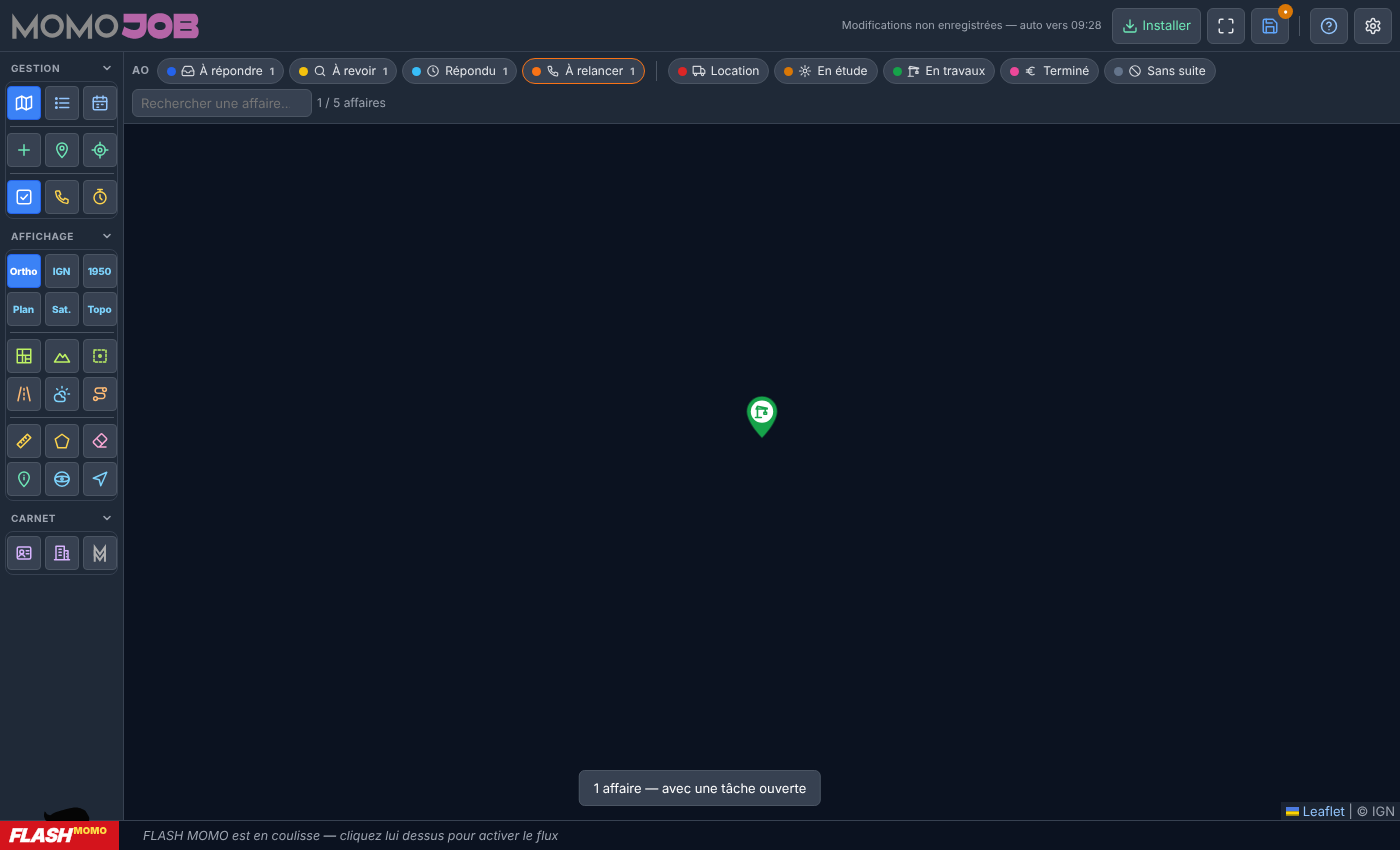
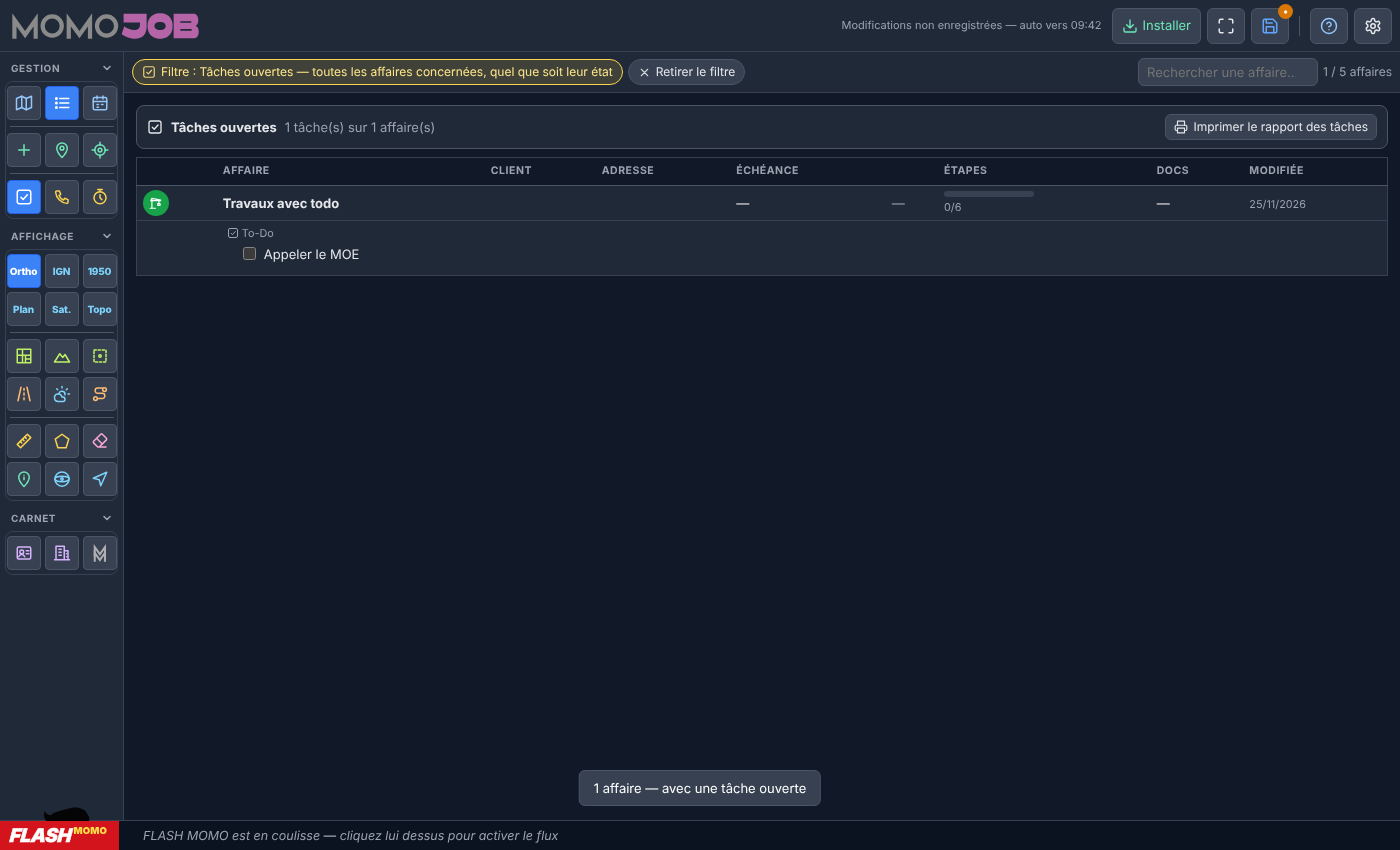
Tâches : vue liste avec les to-do sous chaque affaire (cochables), rapport imprimable des tâches ; filtres de GESTION combinés aux vignettes, signalés dans la barre et non mémorisés
Claude-Session: https://claude.ai/code/session_01UwkBq42mTmNpzeL7SbmaEB

diff --git a/index.html b/index.html
@@ -237,6 +237,10 @@ body.pano-on #map{right:48%}body.pano-on #modeHint{left:26%}body.pano-on #liveLe
 .tttodo{margin-top:4px;padding-top:4px;border-top:1px solid #4b5563;color:#e5e7eb;font-size:12px}.tttodo b{color:#fcd34d;display:flex;align-items:center;gap:4px}
 .tlclip{position:absolute;right:-8px;bottom:-6px;display:inline-flex;align-items:center;gap:1px;background:var(--acc);color:#fff;border-radius:8px;padding:0 4px;font:700 10px/14px system-ui;font-style:normal}.tli{position:relative}
 .tln.over .tli{outline:2px dashed var(--acc2);outline-offset:3px}.evfiles.over{outline:2px dashed var(--acc2);outline-offset:4px;border-radius:6px}
+.todobar{display:flex;align-items:center;gap:8px;padding:8px 10px;margin-bottom:8px;border:1px solid var(--line);border-radius:8px;background:var(--pan)}.todobar .sp{flex:1}
+.todorow td{padding-top:0!important;border-top:0!important}.todorow .tdg{margin:2px 0 8px 4px}.todorow .tdi{display:flex;align-items:center;gap:8px;margin:4px 0 0 16px;cursor:pointer;width:max-content;max-width:100%}.todorow .tdi input{width:auto!important;height:auto;margin:0;flex:none}.todorow .tdi span{color:var(--ink)}
+.pdoc .tdaff{break-inside:avoid-page;margin-bottom:14px;padding-bottom:8px;border-bottom:1px solid #ddd}.pdoc h3{font-size:12.5px;margin:8px 0 3px}
+#fbar .tag.focus{background:rgba(252,211,77,.15);border-color:#fcd34d;color:#fde68a}
 .dlink{color:#93c5fd;text-decoration:none;display:inline-flex;align-items:center;gap:4px}.dlink:hover{color:#fff;text-decoration:underline}.prel.over{border-color:var(--acc2);background:var(--acc-l)}.jal.over{border-color:var(--acc2);background:var(--acc-l)}
 .jnum{width:26px;height:26px;border-radius:50%;display:inline-flex;align-items:center;justify-content:center;color:#111827;font-weight:800;font-size:12px;flex:none}
 .kpis{display:flex;gap:8px;flex-wrap:wrap;margin-bottom:12px}
@@ -746,8 +750,8 @@ let IDXV=0,NEXTAUTO=null,AUTOERR='';const DIRTYV=new Map();
 let IDXDIRTY=false,LASTSAVE=null,A=null,RTAB='rapport',DCTAB='dc1',VIEW='map',MODE=null,MOVEA=null,DRAWER=null,saving=false;
 const FILT={ar:true,rev:true,rep:true,rel:true,focus:'',location:true,etude:true,travaux:true,termine:true,sanssuite:true,q:''};
 /* Les filtres d'états et les surcouches restent réglés d'une ouverture à l'autre */
-try{const f=JSON.parse(localStorage.getItem('momojob_filt')||'null');if(f)for(const k in FILT)if(k!=='q'&&f[k]!==undefined&&typeof f[k]===typeof FILT[k])FILT[k]=f[k]}catch(e){}
-const saveFilt=()=>{try{const f={...FILT};delete f.q;localStorage.setItem('momojob_filt',JSON.stringify(f))}catch(e){}};
+try{const f=JSON.parse(localStorage.getItem('momojob_filt')||'null');if(f)for(const k in FILT)if(k!=='q'&&f[k]!==undefined&&typeof f[k]===typeof FILT[k])FILT[k]=f[k];FILT.focus=''}catch(e){}
+const saveFilt=()=>{try{const f={...FILT};delete f.q;delete f.focus;localStorage.setItem('momojob_filt',JSON.stringify(f))}catch(e){}};
 function newIndex(){return {app:'MOMOwork',v:1,created:new Date().toISOString(),settings:{autoVal:5,autoUnit:'min',center:null},entreprise:{ca:[{},{},{}],eff:[{},{},{}]},carnet:{clients:[],st:[],fourn:[]},annots:[],affaires:[]}}
 function normIdx(){const n=newIndex();for(const k in n)if(IDX[k]==null)IDX[k]=n[k];for(const k in n.settings)if(IDX.settings[k]===undefined)IDX.settings[k]=n.settings[k];for(const k in n.carnet)if(!IDX.carnet[k])IDX.carnet[k]=[];if(!IDX.entreprise.ca)IDX.entreprise.ca=[{},{},{}];if(!IDX.entreprise.eff)IDX.entreprise.eff=[{},{},{}]}
 function newAff(p={}){return {app:'MOMOwork-affaire',v:1,id:uid('AF-'),created:new Date().toISOString(),updated:new Date().toISOString(),
@@ -762,8 +766,8 @@ function normAff(a){const n=newAff();for(const k in n)if(a[k]==null)a[k]=n[k];fo
 const RELANCE_J=21;
 function aoSub(s){if(s.etat!=='ao')return null;if(s.avalider)return 'rev';if(s.repondu){const r=s.rdate?-daysTo(s.rdate):null;return r!=null&&r>=RELANCE_J?'rel':'rep'}return 'ar'}
 const AOSUB={ar:{l:'À répondre',c:'#2563EB',e:'inbox'},rev:{l:'À revoir',c:'#F4C20D',e:'search'},rep:{l:'Répondu',c:'#38BDF8',e:'clock'},rel:{l:'À relancer',c:'#F97316',e:'phone'}};
-const openTodos=a=>{const o=[];(a.events||[]).forEach(e=>{if(e.type==='todo')(e.items||[]).forEach(it=>{if(!it.done&&it.t)o.push(it.t)})});return o};
-function summary(a){const d=a.deno;const st=STEPS.map(s=>stepState(a,s));const jn=(a.jalons||[]).find(j=>!j.valide&&j.prevu);return {id:a.id,mtf:a.mtf||null,fs:a.fs||null,late:(a.fact||[]).filter(factLate).length,jnext:jn?{t:jn.titre,d:daysTo(jn.prevu)}:null,nom:d.nom,ref:d.ref,etat:d.etat,client:d.client.societe,adresse:d.adresse,lat:d.lat,lng:d.lng,echeance:d.echeance,repondu:!!d.repondu,avalider:!!d.avalider,rdate:d.relanceLe||d.reponduLe||d.echeance||'',todo:openTodos(a).length,todos:openTodos(a).slice(0,6),steps:{done:st.filter(x=>x==='done').length,total:STEPS.length},docs:{ok:a.docs.filter(x=>x.st!=='attendu').length,total:a.docs.length},updated:a.updated}}
+const openTodos=a=>{const o=[];[...(a.events||[])].sort((x,y)=>(x.date||'').localeCompare(y.date||'')).forEach(e=>{if(e.type==='todo')(e.items||[]).forEach((it,i)=>{if(!it.done&&it.t)o.push({e:e.id,i,t:it.t,l:e.titre||'To-Do',d:(e.date||'').slice(0,10)})})});return o};
+function summary(a){const d=a.deno;const st=STEPS.map(s=>stepState(a,s));const jn=(a.jalons||[]).find(j=>!j.valide&&j.prevu);return {id:a.id,mtf:a.mtf||null,fs:a.fs||null,late:(a.fact||[]).filter(factLate).length,jnext:jn?{t:jn.titre,d:daysTo(jn.prevu)}:null,nom:d.nom,ref:d.ref,etat:d.etat,client:d.client.societe,adresse:d.adresse,lat:d.lat,lng:d.lng,echeance:d.echeance,repondu:!!d.repondu,avalider:!!d.avalider,rdate:d.relanceLe||d.reponduLe||d.echeance||'',todo:openTodos(a).length,todos:openTodos(a).slice(0,40),steps:{done:st.filter(x=>x==='done').length,total:STEPS.length},docs:{ok:a.docs.filter(x=>x.st!=='attendu').length,total:a.docs.length},updated:a.updated}}
 function syncEntry(a){const s=summary(a);const i=IDX.affaires.findIndex(x=>x.id===a.id);if(i<0)IDX.affaires.push(s);else IDX.affaires[i]=s}
 function touchAff(a){a.updated=new Date().toISOString();DIRTY.add(a.id);DIRTYV.set(a.id,(DIRTYV.get(a.id)||0)+1);syncEntry(a);markIdx()}
 function touch(){if(A)touchAff(A)}
@@ -1007,6 +1011,7 @@ function pinIcon(s){const st=pinStyle(s),icol=st.c==='#F4C20D'?'#a16207':st.c===
   return L.divIcon({className:'pin',iconSize:[36,46],iconAnchor:[18,45],tooltipAnchor:[0,-40],html:`<svg width="36" height="46" viewBox="0 0 36 46" xmlns="http://www.w3.org/2000/svg"><path d="M18 44.6S33.6 29.4 33.6 17.6A15.6 15.6 0 0 0 2.4 17.6C2.4 29.4 18 44.6 18 44.6Z" fill="${st.c}" stroke="#0b1220" stroke-opacity=".6" stroke-width="1.6" stroke-linejoin="round"/><circle cx="18" cy="17.6" r="11.2" fill="#fff"/><svg x="10.2" y="9.8" width="15.6" height="15.6" viewBox="0 0 24 24" fill="none" stroke="${icol}" stroke-width="2.5" stroke-linecap="round" stroke-linejoin="round">${IC[st.e]||''}</svg></svg>`})}
 function visible(s){
   const q=FILT.q;if(q){const t=[s.nom,s.client,s.adresse,s.ref].join(' ').toLowerCase();if(!t.includes(q))return false}
+  /* Filtre de GESTION : il se combine avec les vignettes d'états */
   if(FILT.focus==='todo'&&!(s.todo>0))return false;
   if(FILT.focus==='rel'&&aoSub(s)!=='rel')return false;
   if(FILT.focus==='soon'){const j=daysTo(s.echeance);if(s.repondu||j==null||j<0||j>7||['termine','sanssuite'].includes(s.etat))return false}
@@ -1300,7 +1305,7 @@ function refreshMarkers(){
   IDX.affaires.forEach(s=>{if(s.lat==null||s.lng==null||!visible(s))return;
     const m=L.marker([s.lat,s.lng],{icon:pinIcon(s)});
     const j=daysTo(s.echeance);
-    m.bindTooltip(`<b>${esc(s.nom)}</b><br>${esc(ETATS[s.etat]?.l||'')}${s.client?' — '+esc(s.client):''}${s.echeance?`<br>Échéance : ${fmtD(s.echeance)}${!s.repondu&&j!=null&&s.etat!=='termine'&&s.etat!=='sanssuite'?` (${j<0?'dépassée':'J-'+j})`:''}`:''}${aoSub(s)==='rel'?`<br><b style="color:#F97316">${ic('phone',12)} À relancer</b>`:''}${s.todo?`<div class="tttodo"><b>${ic('todo',12)} ${s.todo} tâche${s.todo>1?'s':''} ouverte${s.todo>1?'s':''}</b>${(s.todos||[]).slice(0,4).map(t=>`<div>• ${esc(t)}</div>`).join('')}${s.todo>4?`<div>… et ${s.todo-4} autre(s)</div>`:''}</div>`:''}<div class="ttw" data-w="${s.id}">${wxNowHTML(s)}</div><span style="color:#9ca3af">${s.steps?.done||0}/${s.steps?.total||6} étapes — clic pour le rapport</span>`,{direction:'top'});
+    m.bindTooltip(`<b>${esc(s.nom)}</b><br>${esc(ETATS[s.etat]?.l||'')}${s.client?' — '+esc(s.client):''}${s.echeance?`<br>Échéance : ${fmtD(s.echeance)}${!s.repondu&&j!=null&&s.etat!=='termine'&&s.etat!=='sanssuite'?` (${j<0?'dépassée':'J-'+j})`:''}`:''}${aoSub(s)==='rel'?`<br><b style="color:#F97316">${ic('phone',12)} À relancer</b>`:''}${s.todo?`<div class="tttodo"><b>${ic('todo',12)} ${s.todo} tâche${s.todo>1?'s':''} ouverte${s.todo>1?'s':''}</b>${(s.todos||[]).slice(0,4).map(t=>`<div>• ${esc(t.t||t)}</div>`).join('')}${s.todo>4?`<div>… et ${s.todo-4} autre(s)</div>`:''}</div>`:''}<div class="ttw" data-w="${s.id}">${wxNowHTML(s)}</div><span style="color:#9ca3af">${s.steps?.done||0}/${s.steps?.total||6} étapes — clic pour le rapport</span>`,{direction:'top'});
     m.on('tooltipopen',()=>wxNow(s).then(()=>{const t=m.getTooltip();if(t&&t.isOpen()){const el=t.getElement()?.querySelector('.ttw');if(el)el.innerHTML=wxNowHTML(s)}}));
     m.on('click',()=>{if(!MODE)openAffaire(s.id)});MARKERS.addLayer(m)});
 }
@@ -1385,7 +1390,7 @@ $('#tools').addEventListener('click',async e=>{const ph=e.target.closest('[data-
   if(k==='new')return newAffaireDialog({});
   if(k==='place'){setView('map');return setMode(MODE==='place'?null:'place')}
   if(k==='fit'){setView('map');return fitAll()}
-  if(k==='f'){const f=v;FILT.focus=FILT.focus===f?'':f;saveFilt();renderTools();refreshAll();if(f==='todo'&&FILT.focus)todoBackfill();const n=IDX.affaires.filter(visible).length;if(FILT.focus)toast(`${n} affaire${n>1?'s':''} — ${{todo:'avec une tâche ouverte',rel:'à relancer',soon:'à échéance sous 7 jours'}[f]}`+(n?'':' (filtres d\u2019états actifs ?)'));return}
+  if(k==='f'){const f=v;FILT.focus=FILT.focus===f?'':f;renderTools();renderFbar();refreshAll();if(f==='todo'&&FILT.focus){todoBackfill().then(()=>{if(VIEW==='list')renderList()});setView('list')}else if(VIEW==='list')renderList();const n=IDX.affaires.filter(visible).length;if(FILT.focus)toast(`${n} affaire${n>1?'s':''} — ${{todo:'avec une tâche ouverte',rel:'à relancer',soon:'à échéance sous 7 jours'}[f]}`+(n?'':' (filtres d\u2019états actifs ?)'));return}
   if(k==='locate'){setView('map');return locateMe()}
   if(k==='mclear')return mclearAll();
   if(k==='b'){setView('map');return setBase(v)}
@@ -1398,24 +1403,45 @@ function setView(v){VIEW=v;$$('.view').forEach(x=>x.classList.toggle('on',x.id==
 
 /* ============ Barre de filtres ============ */
 function renderFbar(){
-  const n=k=>IDX.affaires.filter(x=>aoSub(x)===k).length;
-  $('#fbar').innerHTML=`<span class="fgrp" title="Appels d'offres">AO</span>`+Object.entries(AOSUB).map(([k,v])=>`<button class="tag ${FILT[k]===false?'off':''} ${k==='rel'&&n('rel')?'hot':''}" data-f="${k}" title="Appels d'offres : ${v.l.toLowerCase()}${k==='rel'?' (offre remise depuis 3 semaines sans relance)':''}"><span class="dot" style="background:${v.c}"></span>${ic(v.e,14)} ${v.l}${n(k)?` <small>${n(k)}</small>`:''}</button>`).join('')+'<span class="fsep"></span>'+
+  const n=k=>IDX.affaires.filter(x=>aoSub(x)===k&&sh(x)).length;
+  const FL={todo:['todo','Tâches ouvertes'],rel:['phone','À relancer'],soon:['soon','Échéances sous 7 jours']}[FILT.focus];
+  const sh=s=>!FILT.focus||(FILT.focus==='todo'?s.todo>0:FILT.focus==='rel'?aoSub(s)==='rel':true);
+  $('#fbar').innerHTML=(FL?`<button class="tag focus" data-unfocus title="Filtre de GESTION actif, combiné avec les vignettes d'états — cliquez pour le retirer">${ic(FL[0],14)} ${FL[1]} ${ic('x',12)}</button><span class="fsep"></span>`:'')+`<span class="fgrp" title="Appels d'offres">AO</span>`+Object.entries(AOSUB).map(([k,v])=>`<button class="tag ${FILT[k]===false?'off':''} ${k==='rel'&&n('rel')?'hot':''}" data-f="${k}" title="Appels d'offres : ${v.l.toLowerCase()}${k==='rel'?' (offre remise depuis 3 semaines sans relance)':''}"><span class="dot" style="background:${v.c}"></span>${ic(v.e,14)} ${v.l}${n(k)?` <small>${n(k)}</small>`:''}</button>`).join('')+'<span class="fsep"></span>'+
   Object.entries(ETATS).filter(([k])=>k!=='ao').map(([k,v])=>`<button class="tag ${FILT[k]===false?'off':''}" data-f="${k}"><span class="dot" style="background:${v.c}"></span>${ic(v.e,14)} ${v.l}</button>`).join('')+
   `<span class="sp"></span><input id="search" type="search" placeholder="Rechercher une affaire…" value="${esc(FILT.q)}"><span id="count"></span>`;
   renderCount();
 }
 function renderCount(){const n=IDX.affaires.filter(visible).length;const c=$('#count');if(c)c.textContent=`${n} / ${IDX.affaires.length} affaire${IDX.affaires.length>1?'s':''}`}
-$('#fbar').addEventListener('click',e=>{const b=e.target.closest('[data-f]');if(!b)return;const k=b.dataset.f;FILT[k]=FILT[k]===false;saveFilt();renderFbar();refreshAll()});
+$('#fbar').addEventListener('click',e=>{if(e.target.closest('[data-unfocus]')){FILT.focus='';renderTools();renderFbar();refreshAll();return}const b=e.target.closest('[data-f]');if(!b)return;const k=b.dataset.f;FILT[k]=FILT[k]===false;saveFilt();renderFbar();refreshAll()});
 $('#fbar').addEventListener('input',e=>{if(e.target.id==='search'){FILT.q=e.target.value.trim().toLowerCase();refreshAll()}});
 /* Les affaires jamais rouvertes depuis la mise à jour n'ont pas encore le compte de tâches : on le calcule une fois */
-let TODOBF=false;async function todoBackfill(){if(TODOBF)return;TODOBF=true;let n=0;for(const s of IDX.affaires.filter(x=>x.todo===undefined)){try{const a=CACHE.get(s.id)||await Store.loadAff(s.id);if(a){normAff(a);const t=openTodos(a);s.todo=t.length;s.todos=t.slice(0,6);n++}}catch(e){}}if(n){markIdx();refreshAll()}}
+let TODOBF=false;async function todoBackfill(){if(TODOBF)return;TODOBF=true;let n=0;for(const s of IDX.affaires.filter(x=>x.todo===undefined||(x.todos||[]).some(t=>typeof t==='string'))){try{const a=CACHE.get(s.id)||await Store.loadAff(s.id);if(a){normAff(a);const t=openTodos(a);s.todo=t.length;s.todos=t.slice(0,40);n++}}catch(e){}}if(n){markIdx();refreshAll()}}
 function refreshAll(){refreshMarkers();renderCount();if(VIEW==='list')renderList();if(VIEW==='agenda')renderAgenda()}
 
 /* ============ Liste & Agenda ============ */
 function jBadge(s){if(s.etat==='termine'||s.etat==='sanssuite')return `<span class="jb" style="color:var(--mute)">${s.etat==='termine'?'Terminée':'Sans suite'}</span>`;if(aoSub(s)==='rel')return `<span class="jb rel">${ic('phone',12)} À relancer</span>`;if(s.repondu)return '<span class="jb done">Répondu</span>';const j=daysTo(s.echeance);if(j==null)return '<span class="mute">—</span>';if(j<0)return `<span class="jb late">Dépassée (${-j} j)</span>`;if(j===0)return '<span class="jb late">Aujourd\u2019hui</span>';return `<span class="jb ${j<=7?'soon':'ok'}">J-${j}</span>`}
+function todoGroups(s){const G=[];(s.todos||[]).forEach(t=>{if(typeof t==='string')t={t,l:'To-Do',e:'',i:-1};let g=G.find(x=>x.e===t.e);if(!g)G.push(g={e:t.e,l:t.l,d:t.d,items:[]});g.items.push(t)});return G}
+document.addEventListener('change',async e=>{const c=e.target.closest('[data-tchk]');if(!c)return;e.stopPropagation();const [id,eid,i]=c.dataset.tchk.split('|');
+  try{const a=CACHE.get(id)||await Store.loadAff(id);if(!a)throw 0;normAff(a);CACHE.set(id,a);const ev=a.events.find(x=>x.id===eid);if(!ev||!ev.items[+i])throw 0;ev.items[+i].done=true;touchAff(a);toast('Tâche cochée : '+ev.items[+i].t,'ok');setTimeout(()=>{if(VIEW==='list')renderList()},250)}catch(x){toast('Impossible de cocher : ouvrez l\u2019affaire','err');c.checked=false}});
+document.addEventListener('click',e=>{if(e.target.closest('[data-tchk]')||e.target.closest('.todorow .tdi'))e.stopPropagation();const b=e.target.closest('[data-todoprint]');if(b)printTodos()},true);
+async function printTodos(){
+  const rows=IDX.affaires.filter(visible).filter(s=>s.todo>0).sort((a,b)=>(a.echeance||'9999').localeCompare(b.echeance||'9999')||a.nom.localeCompare(b.nom));
+  if(!rows.length)return toast('Aucune tâche ouverte dans les affaires affichées');
+  toast('Préparation du rapport des tâches…');
+  let h='',nOpen=0;
+  for(const s of rows){let a=null;try{a=CACHE.get(s.id)||await Store.loadAff(s.id);if(a)normAff(a)}catch(e){}
+    const evs=a?[...a.events].filter(e=>e.type==='todo'&&e.items.some(i=>!i.done)).sort((x,y)=>(x.date||'').localeCompare(y.date||'')):[];
+    const d=a?a.deno:{};const sub=aoSub(s);
+    h+=`<div class="tdaff"><h2>${esc(s.nom)}${s.ref?` <span style="font-weight:400;color:#555">— ${esc(s.ref)}</span>`:''}</h2>
+      <p style="color:#555;margin:0 0 6px">${esc(sub?AOSUB[sub].l+' (appel d\u2019offre)':ETATS[s.etat]?.l||'')}${s.client?' · '+esc(s.client):''}${s.adresse?' · '+esc(s.adresse):''}${s.echeance?' · échéance '+fmtD(s.echeance):''}${d.client&&d.client.contact?' · contact '+esc(d.client.contact)+(d.client.tel?' ('+esc(d.client.tel)+')':''):''}</p>`;
+    if(evs.length)evs.forEach(e=>{const op=e.items.filter(i=>!i.done).length;nOpen+=op;h+=`<h3>${esc(e.titre||'To-Do')} <span style="font-weight:400;color:#555">— créée le ${fmtD(e.date)} · ${op} à faire / ${e.items.length}</span></h3><table>${e.items.map(i=>`<tr style="${i.done?'color:#999;text-decoration:line-through':''}"><td style="width:22px">${i.done?'☒':'☐'}</td><td>${esc(i.t)}</td></tr>`).join('')}</table>`});
+    else{nOpen+=s.todo;h+=`<table>${(s.todos||[]).map(t=>`<tr><td style="width:22px">☐</td><td>${esc(t.t||t)}</td></tr>`).join('')}</table>`}
+    h+='</div>'}
+  doPrint(`<div class="pdoc">${pHead('Rapport des tâches ouvertes')}<p><b>${nOpen}</b> tâche(s) à faire sur <b>${rows.length}</b> affaire(s) — tâches faites rappelées en grisé.</p>${h}<div class="pfoot">MomoJOB — rapport des tâches</div></div>`,'Rapport des taches '+new Date().toLocaleDateString('fr-FR'));
+}
 function renderList(){
   const rows=IDX.affaires.filter(visible).sort((a,b)=>(a.echeance||'9999').localeCompare(b.echeance||'9999')||a.nom.localeCompare(b.nom));
-  $('#v-list').innerHTML=`<div class="listwrap"><table class="tbl"><thead><tr><th></th><th>Affaire</th><th>Client</th><th>Adresse</th><th>Échéance</th><th></th><th>Étapes</th><th>Docs</th><th>Modifiée</th></tr></thead><tbody>${rows.map(s=>{const st=pinStyle(s);const p=s.steps?Math.round(100*s.steps.done/s.steps.total):0;return `<tr class="click" data-open="${s.id}"><td><span class="rpin" style="background:${st.c};width:26px;height:26px;color:#fff">${ic(st.e,14)}</span></td><td><b>${esc(s.nom)}</b>${s.ref?`<br><small class="mute">${esc(s.ref)}</small>`:''}</td><td>${esc(s.client||'')}</td><td><small>${esc(s.adresse||'')}</small></td><td>${fmtD(s.echeance)}</td><td>${jBadge(s)}</td><td><div class="bar"><i style="width:${p}%"></i></div><small class="mute">${s.steps?.done||0}/${s.steps?.total||6}</small></td><td>${s.docs?.total?`${s.docs.ok}/${s.docs.total}`:'—'}</td><td><small class="mute">${fmtD(s.updated?.slice(0,10))}</small></td></tr>`}).join('')||'<tr><td colspan="9" class="empty">Aucune affaire. Utilisez « Nouvelle affaire » ou « Placer » dans la palette.</td></tr>'}</tbody></table></div>`;
+  $('#v-list').innerHTML=`<div class="listwrap">${FILT.focus==='todo'?`<div class="todobar">${ic('todo',16)}<b>Tâches ouvertes</b><span class="mute">${rows.reduce((n,s)=>n+(s.todo||0),0)} tâche(s) sur ${rows.length} affaire(s)</span><span class="sp"></span><button class="btn sm" data-todoprint>${ic('print',14)} Imprimer le rapport des tâches</button></div>`:''}<table class="tbl"><thead><tr><th></th><th>Affaire</th><th>Client</th><th>Adresse</th><th>Échéance</th><th></th><th>Étapes</th><th>Docs</th><th>Modifiée</th></tr></thead><tbody>${rows.map(s=>{const st=pinStyle(s);const p=s.steps?Math.round(100*s.steps.done/s.steps.total):0;return `<tr class="click" data-open="${s.id}"><td><span class="rpin" style="background:${st.c};width:26px;height:26px;color:#fff">${ic(st.e,14)}</span></td><td><b>${esc(s.nom)}</b>${s.ref?`<br><small class="mute">${esc(s.ref)}</small>`:''}</td><td>${esc(s.client||'')}</td><td><small>${esc(s.adresse||'')}</small></td><td>${fmtD(s.echeance)}</td><td>${jBadge(s)}</td><td><div class="bar"><i style="width:${p}%"></i></div><small class="mute">${s.steps?.done||0}/${s.steps?.total||6}</small></td><td>${s.docs?.total?`${s.docs.ok}/${s.docs.total}`:'—'}</td><td><small class="mute">${fmtD(s.updated?.slice(0,10))}</small></td></tr>${FILT.focus==='todo'&&(s.todos||[]).length?`<tr class="todorow"><td></td><td colspan="8">${todoGroups(s).map(g=>`<div class="tdg"><small class="mute">${ic('todo',12)} ${esc(g.l)}${g.d?' — '+fmtD(g.d):''}</small>${g.items.map(t=>`<label class="tdi"><input type="checkbox" data-tchk="${s.id}|${t.e}|${t.i}" title="Cocher comme fait"><span>${esc(t.t)}</span></label>`).join('')}</div>`).join('')}${s.todo>(s.todos||[]).length?`<small class="mute">… et ${s.todo-s.todos.length} autre(s) — ouvrez l\u2019affaire</small>`:''}</td></tr>`:''}`}).join('')||'<tr><td colspan="9" class="empty">Aucune affaire. Utilisez « Nouvelle affaire » ou « Placer » dans la palette.</td></tr>'}</tbody></table></div>`;
 }
 function renderAgenda(){
   const L0=IDX.affaires.filter(s=>s.echeance&&!s.repondu&&!['termine','sanssuite'].includes(s.etat)&&visible(s));
